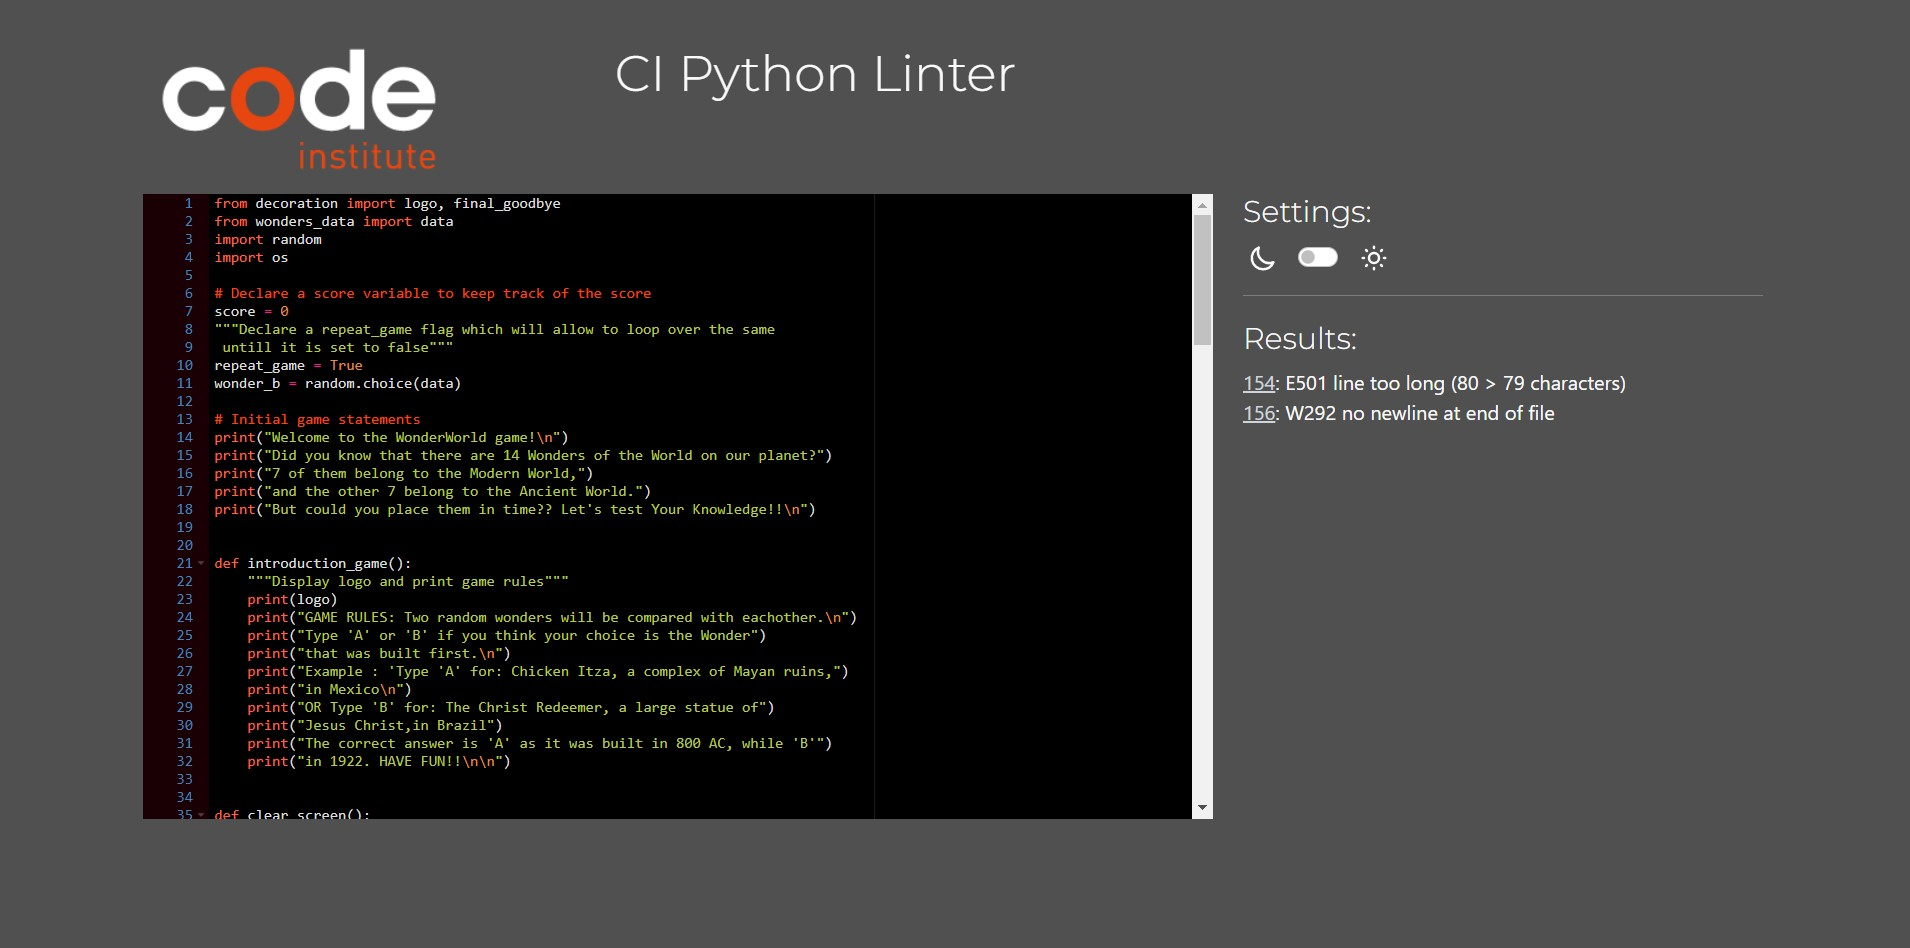
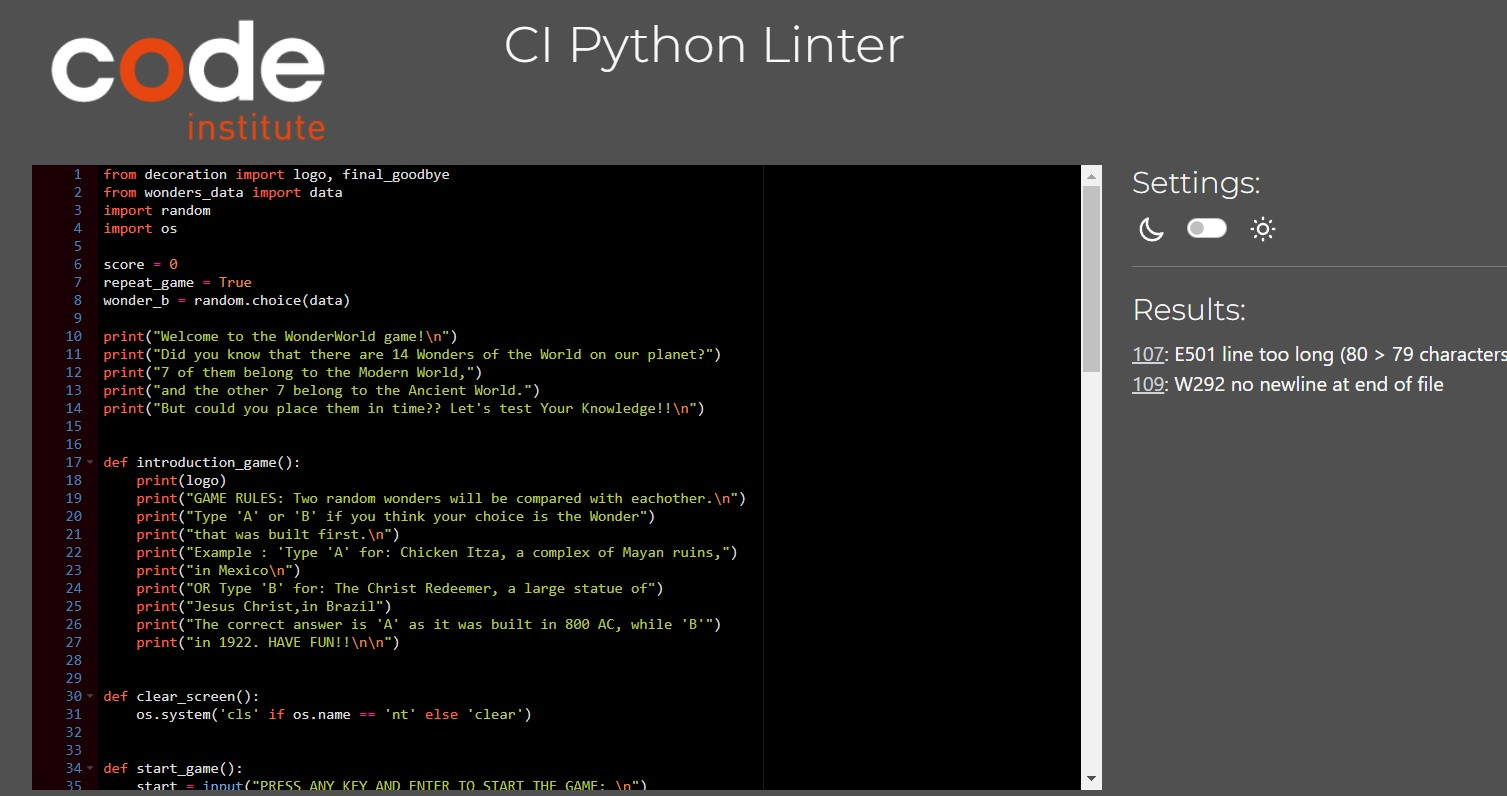
Review the project, fix all the errors before deployment

Changed region(s): [[0.0, 0.1809, 1.0, 0.995], [0.0312, 0.0302, 0.2495, 0.1809], [0.3119, 0.0302, 0.5926, 0.1206]]

diff --git a/wonders_data.py b/wonders_data.py
@@ -65,7 +65,7 @@ data = [
     {'name': "Lighthouse of Alexandria",
      'country': "Egypt",
      'year_built': -300,
-     'description': "a tall lighthouse on the coast of Egypt, built to guide ships into the harbor"
+     'description': "a tall lighthouse on the coast of Egypt, built to guide yships into the harbor"
      },
     {'name': "Colossus of Rhodes",
      'country': "Greece",

diff --git a/run.py b/run.py
@@ -31,7 +31,14 @@ def clear_screen():
     os.system('cls' if os.name == 'nt' else 'clear')
 
 
+def start_game():
+    start = input("PRESS ANY KEY AND ENTER TO START THE GAME: \n")
+    if start != "":
+        clear_screen()
+
+
 introduction_game()
+start_game()
 
 while repeat_game:
     def build_the_option(wonder):
